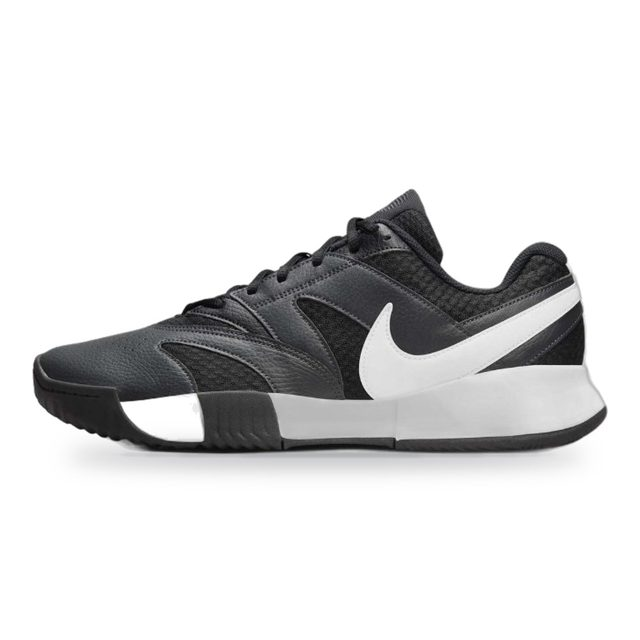
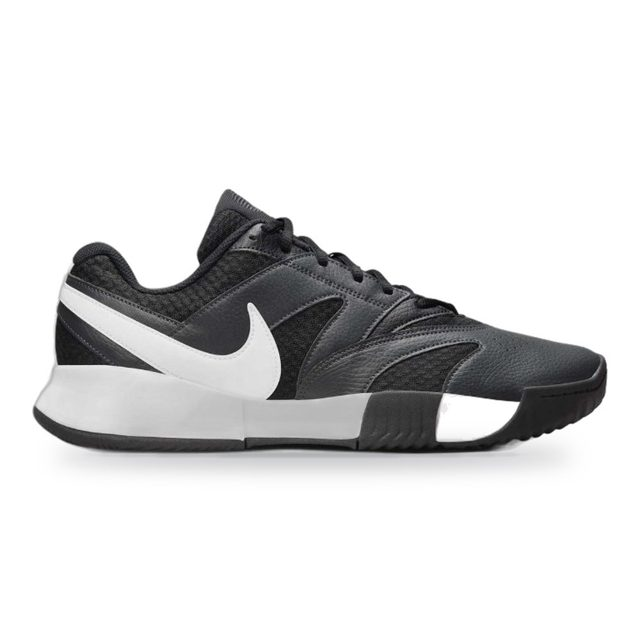
Vira as fotos da Nike para o mesmo lado das demais e orienta novas fotos automaticamente
Claude-Session: https://claude.ai/code/session_01HywM5yJj79QDSuAfCyrF1p

Changed region(s): [[0.0312, 0.2812, 0.9688, 0.7188]]

diff --git a/pedido.html b/pedido.html
@@ -90,7 +90,7 @@ if(!P){
       <div class="va"><span class="tm">Tam. ${esc(c.tam)}</span> × ${c.q}<br>${brl(c.preco)} un.<b>${brl(c.preco*c.q)}</b></div></li>`).join("")}</ul>
     <div class="tot"><span class="rf" style="color:inherit">Total</span><b>${brl(tot)}</b></div>
     <div class="pag"><h2>Formas de pagamento</h2>
-      <p><b>Cartão de crédito</b> ${parc>1?`em até ${parc}x de ${brl(tot/parc)}`:"à vista no crédito"}</p>
+      <p><b>Cartão de crédito</b> em até 10x, parcela mínima de R$ 100,00<br><small>${parc>1?`Neste pedido: até ${parc}x de ${brl(tot/parc)}`:"Neste pedido: 1x no crédito"}</small></p>
       <p><b>Cartão de débito</b></p><p><b>PIX</b></p></div>
     <div class="acoes"><button class="bt p" type="button" id="pdf">Baixar PDF do pedido</button><a class="bt s" href="./">Ver o catálogo</a></div>
     <p class="obs">Pedido sujeito à confirmação de estoque. Preços sujeitos a alteração. Os valores vêm do link enviado pelo cliente, então confira com o catálogo antes de fechar.</p>`;
@@ -120,7 +120,8 @@ function gerarPdf(P, fotos, LOGO){
   doc.setFillColor(...CARB); doc.rect(0,0,W,42,"F");
   if(LOGO) doc.addImage(LOGO,"PNG",M,11,44,44*349/1200);
   doc.setTextColor(200,202,204); doc.setFont("helvetica","normal"); doc.setFontSize(9);
-  doc.text(LOJA.end+"   ·   WhatsApp "+LOJA.zap, M, 33);
+  doc.text("LOJA DE CORRIDA E TÊNIS", M, 31);
+  doc.text(LOJA.end+"   ·   WhatsApp "+LOJA.zap, M, 36);
   doc.setTextColor(...VOLT); doc.setFont("helvetica","bold"); doc.setFontSize(18);
   doc.text("PEDIDO", W-M, 18, {align:"right"});
   doc.setTextColor(248,247,242); doc.setFont("helvetica","normal"); doc.setFontSize(9.5);
@@ -167,11 +168,12 @@ function gerarPdf(P, fotos, LOGO){
   doc.setFont("helvetica","bold"); doc.setFontSize(15); doc.text(brl(tot), W-M-4, y+9.5, {align:"right"});
   // formas de pagamento
   const parc = Math.max(1, Math.min(10, Math.floor(tot/100)));
-  doc.setDrawColor(...CARB); doc.setLineWidth(.3); doc.roundedRect(M, y, 96, 40, 2, 2, "S");
+  doc.setDrawColor(...CARB); doc.setLineWidth(.3); doc.roundedRect(M, y, 96, 46, 2, 2, "S");
   doc.setFont("helvetica","bold"); doc.setFontSize(10); doc.text("FORMAS DE PAGAMENTO", M+5, y+7);
   doc.setFont("helvetica","normal"); doc.setFontSize(9.5);
   const fp = [
-    ["Cartão de crédito", parc>1 ? `Em até ${parc}x de ${brl(tot/parc)}` : "À vista no crédito"],
+    ["Cartão de crédito", "Em até 10x, parcela mínima de R$ 100,00"],
+    ["", parc>1 ? `Neste pedido: até ${parc}x de ${brl(tot/parc)}` : "Neste pedido: 1x no crédito"],
     ["Cartão de débito", ""],
     ["PIX", ""],
   ];

diff --git a/fonte/padroniza.py b/fonte/padroniza.py
@@ -1,5 +1,7 @@
 # Padrão de foto do catálogo DYUP: fundo branco, tênis de perfil centralizado, sombra suave no chão.
-# Uso: python3 padroniza.py <pasta_origem> <pasta_destino> [REF ...]   (FLIP=REF1,REF2 espelha)
+# Uso: python3 padroniza.py <pasta_origem> <pasta_destino> [REF ...]
+# O tênis sempre fica com o bico para a direita (calcanhar à esquerda): fotos viradas são espelhadas sozinhas.
+# Se a detecção errar numa foto: FLIP=REF1,REF2 força espelhar; NOFLIP=REF1,REF2 impede.
 import sys,os
 from PIL import Image, ImageFilter, ImageDraw, ImageChops
 from rembg import new_session, remove
@@ -7,13 +9,22 @@ S=1000; LARG=0.90; ALT_MAX=0.55; BASE=0.71
 src,dst=sys.argv[1],sys.argv[2]; os.makedirs(dst,exist_ok=True)
 refs=sys.argv[3:] or [os.path.splitext(f)[0] for f in sorted(os.listdir(src)) if f.endswith('.jpg')]
 flip=set(filter(None,os.environ.get('FLIP','').split(',')))
+noflip=set(filter(None,os.environ.get('NOFLIP','').split(',')))
+def virado(cut):
+  # calcanhar é a ponta mais alta: compara o topo médio dos 25% da esquerda com os 25% da direita
+  a=cut.split()[-1]; w,h=a.size; px=a.load(); tops=[]
+  for x in range(w):
+    t=next((y for y in range(h) if px[x,y]>128),None)
+    if t is not None: tops.append((x,t))
+  q=w//4; esq=[t for x,t in tops if x<q]; dir=[t for x,t in tops if x>=w-q]
+  return bool(esq and dir) and sum(dir)/len(dir) < sum(esq)/len(esq)
 ses=new_session('isnet-general-use')
 for r in refs:
   im=Image.open(os.path.join(src,r+'.jpg')).convert('RGB')
   cut=remove(im,session=ses)
   a=cut.split()[-1].point(lambda p:0 if p<20 else p); cut.putalpha(a)
   cut=cut.crop(a.getbbox())
-  if r in flip: cut=cut.transpose(Image.FLIP_LEFT_RIGHT)
+  if r in flip or (r not in noflip and virado(cut)): cut=cut.transpose(Image.FLIP_LEFT_RIGHT); print('espelhado',r)
   k=min(S*LARG/cut.width, S*ALT_MAX/cut.height); cut=cut.resize((round(cut.width*k),round(cut.height*k)),Image.LANCZOS)
   x=(S-cut.width)//2; y=round(S*BASE)-cut.height
   can=Image.new('RGB',(S,S),'white')
